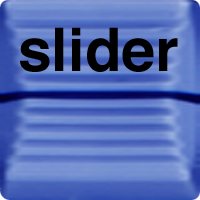
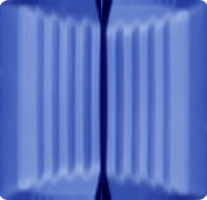
ui redesigned

diff --git a/ui/GSslider.qml b/ui/GSslider.qml
@@ -3,59 +3,73 @@ import QtQuick.Window 2.2
 
 Item {
 	property int num; 
+	property string label; 
+	property string leftstr; 
+	property string rightstr; 
 	height: parent.height;
 	width: slider.width;
 
 	Rectangle {
 		id: slide
-		x: slider.x + (slider.width / 2) - 4 
-		y: slider.height/4
-		height: sliders.height - slider.height;
-		width: gs.width / 60; 
-		border.width: 1 
-		color: "#21498C"
-		border.color: "#D288D8"
-		radius: 8
+		height: sliders.height / 2;
+		width: sliders.width; 
+		border.width: 2 
+		color: "#68A3F5"
+		border.color: "#000000"
+		radius: 2
+		Text {
+			anchors.horizontalCenter: parent.horizontalCenter
+			anchors.verticalCenter: parent.verticalCenter
+			text: label
+			font.family: "Futura"
+			font.pointSize: 16
+			color: "#000000"
+		}
+		Text {
+			anchors.left: parent.left
+			anchors.verticalCenter: parent.verticalCenter
+			anchors.leftMargin: 16 * pixelRatio()
+			text: leftstr
+			font.family: "Futura"
+			font.pointSize: 16
+			color: "#000000"
+		}
+		Text {
+			anchors.right: parent.right
+			anchors.rightMargin: 16 * pixelRatio()
+			anchors.verticalCenter: parent.verticalCenter
+			text: rightstr
+			font.family: "Futura"
+			font.pointSize: 16
+			color: "#000000"
+		}
 	}
 	
 	Image {
-		function getImage(num)  {  (num == 1) ? "CurseurEspace.png" : "Curseur.png"; }
-		function clip(num)  	{  (num == 1) ? "CurseurEspace.png" : "Curseur.png"; }
 		id: slider
 
-		source: (num == 1) ? "CurseurEspace.png" : "Curseur.png";
-		width: gs.width / 8;
-		height: width; 
-		y: sliders.height - slider.height * 1.6;
+		source: "Curseur.png";
+		fillMode: Image.PreserveAspectFit;
+		height: slide.height; 
+		x: slider.x;
+		y: slider.y;
 		antialiasing: true
-/*
-		MouseArea {
-			anchors.fill: parent
-			drag.target: parent
-			drag.axis: Drag.YAxis
-			drag.minimumY: 0
-			drag.maximumY: sliders.height - slider.width*3/2
-			onPositionChanged: {
-				console.log ("mouse slider " + num + " y: " + slider.y); // (slider.y / (sliders.height - slider.width*3/2)));
-				sensors.slider (num, (slider.y / (sliders.height - slider.width*3/2)));
-			}
-		}
-*/
+
 		MultiPointTouchArea {
         	anchors.fill: parent
 	        touchPoints: [
             	TouchPoint { id: touch1 }
 	        ]
 			onTouchUpdated: {
-				var c = touch1.sceneY - sliders.y - slider.height/2;
-				var val = c / (sliders.height - slider.width*3/2);
+				var c = touch1.sceneX - sliders.x - slider.width/2;
+				var val = c / (sliders.width - slider.width);
 				if ((val >= 0) && (val <= 1))  {
-					slider.y = c; 
+					slider.x = c; 
 				}
 				else if (val < 0) val = 0;
 				else if (val > 1) val = 1;
 
-//				console.log ("c " + c + " val: " + val);
+//				console.log ("touch1.sceneX " + touch1.sceneX + " c " + c + " val: " + val);
 				sensors.slider (num, val);
 			}
     	}

diff --git a/ui/GSplay.qml b/ui/GSplay.qml
@@ -11,26 +11,37 @@ Image {
 		return Screen.logicalPixelDensity * 25.4 / 72.
 	}
 
-	Row {
+	Column {
 		id: params
-		spacing: 20 * pixelRatio()
-		y: 30 * pixelRatio()
-		anchors.horizontalCenter: parent.horizontalCenter
-		GSparam { num: 1; name: "b1" }
-		GSparam { num: 2; name: "b2" }
-		GSparam { num: 3; name: "b3" }
+		anchors.right: state.right
+		anchors.top: gs.top
+		anchors.topMargin: 120 * pixelRatio()
+		spacing: 30 * pixelRatio()
+		GSparam { num: 1; }
+		GSparam { num: 3; }
+	}
+	GSparam { 
+		num: 2; 
+		anchors.right: gs.right
+		anchors.rightMargin: 60 * pixelRatio()
+		anchors.bottom: params.bottom
+		anchors.topMargin: 37 * pixelRatio()
 	}
 
-	Row {
+
+	Column {
 		id: sliders
-		spacing: gs.width/3
-		anchors.horizontalCenter: parent.horizontalCenter
-		anchors.topMargin: params.height
-		anchors.top: params.bottom
+		spacing: 10 * pixelRatio()
+		anchors.topMargin: state.height
+		anchors.top: state.bottom
 		anchors.bottom: gs.bottom
-		anchors.bottomMargin: 120 * pixelRatio()
-		GSslider { num: 1; }
-		GSslider { num: 2; }
+		anchors.bottomMargin: 180 * pixelRatio()
+		anchors.left: gs.left
+		anchors.right: gs.right
+		anchors.leftMargin: 30 * pixelRatio()
+		anchors.rightMargin: 30 * pixelRatio()
+		GSslider { num: 1; label: "Space"; leftstr:"-"; rightstr: "+"; }
+		GSslider { num: 2; label: "Slider"; leftstr:""; rightstr: ""; }
 	}
 
 	Rectangle {
@@ -54,11 +65,10 @@ Image {
 	Image {
 		id: state
         anchors.horizontalCenter: gs.horizontalCenter
-        anchors.bottom: tb.top
-        anchors.bottomMargin: 40 * pixelRatio()
+        anchors.verticalCenter: gs.verticalCenter
         source: "ModeA.png"
         fillMode: Image.PreserveAspectFit
-		width: gs.width / 6; 
+		width: gs.width / 3.5; 
 
 		MouseArea {
 			anchors.fill: state

diff --git a/ui/GSparam.qml b/ui/GSparam.qml
@@ -5,19 +5,19 @@ Image {
 	id: button
 	property int num; 
 	property bool state;
-	property string name;
 	state: false;
 
-	source: "BoutonOff.png"
-	width: gs.width / 10;  height: width; 
+	source: "Bouton" + "Off" + num + ".png"
+	fillMode: Image.PreserveAspectFit;
+	width: (num == 2 ? gs.width / 6.4 : gs.width / 2.5); 
 	antialiasing: true
-	objectName: name
+
 	MouseArea {
 		anchors.fill: parent
 		onClicked: {
 			button.state = !button.state;
-			if (button.state) source = "BoutonOn.png";
-			else source = "BoutonOff.png";
+			if (button.state) source = "Bouton" + "On" + num + ".png";
+			else source = "Bouton" + "Off" + num + ".png";
 			sensors.param (button.num, button.state);
 		}
 	}
